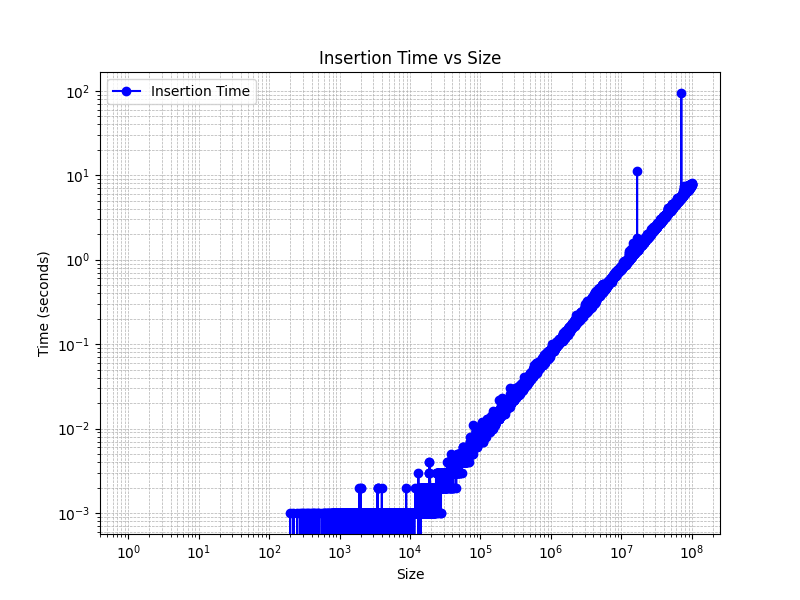
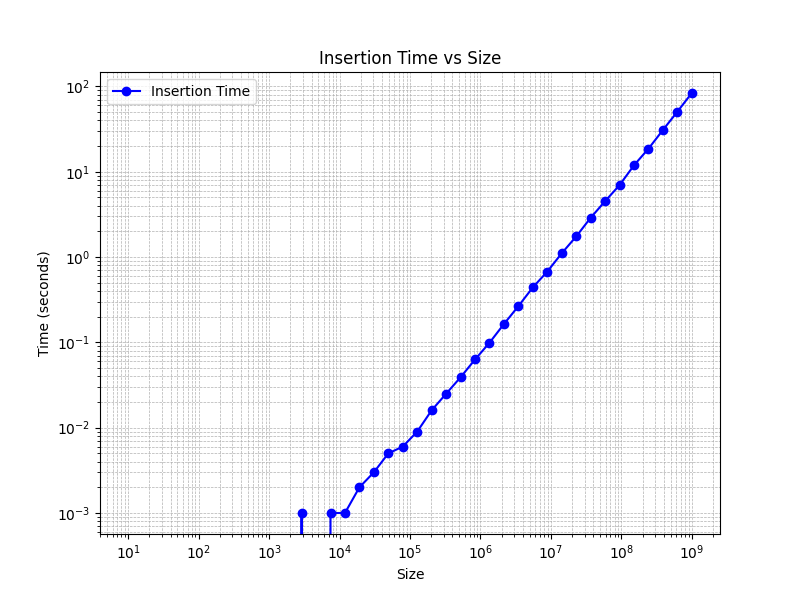
Pour regler le probleme de conflit taha

Changed region(s): [[0.0625, 0.15, 0.9062, 0.9], [0.0938, 0.12, 0.125, 0.18], [0.0938, 0.69, 0.125, 0.72]]

diff --git a/tests/arbreBinaire/test_BST.c b/tests/arbreBinaire/test_BST.c
@@ -1,7 +1,8 @@
 #include <stdio.h>
 #include <stdlib.h>
 #include <time.h>
-#include "../../include/arbreBinaire.h" // Inclure l'en-tête de votre arbre binaire
+#include "../../src/arbreBinaire.c"
+#include <math.h> // Inclure l'en-tête de votre arbre binaire
 
 void benchmarkBSTOperations(FILE *file, int n)
 {
@@ -57,7 +58,7 @@ void benchmarkBSTOperations(FILE *file, int n)
 int main()
 {
     // Définir les fichiers pour les résultats et les tailles de test
-    const char *results_file = "../../results/arbreBinaire/arbre_benchmark.csv";
+    const char *results_file = "../../results/arbreBinaire/arbre_benchmark2.csv";
     const char *test_values_file = "../test_values.csv";
 
     // Ouvrir le fichier de test_values.csv pour lire les tailles d'itération
@@ -101,16 +102,27 @@ int main()
     // Écrire l'en-tête du fichier CSV
     fprintf(file, "Size,insertion,search,delete\n");
 
-    // Exécuter les tests pour chaque taille d'arbre
-    for (int i = 0; i < num_iterations; i++)
+    int num_iterations2 = 60;
+    int iterations2[num_iterations2];
+    double start = 1; // Logarithmique de 10^1 = 1
+    double end = 20;  // Logarithmique de 10^9 = 9
+    double step = (end - start) / (num_iterations2 - 1);
+
+    for (int i = 0; i < num_iterations2; i++)
     {
-        printf("Running test for n=%d...\n", iterations[i]);
-        benchmarkBSTOperations(file, iterations[i]); // Effectuer le benchmark
+        iterations2[i] = (int)pow(10, start + i * step);
+    }
+
+    // Exécuter les tests pour chaque taille d'arbre
+    for (int i = 0; i < num_iterations2; i++)
+    {
+        printf("Running test for n=%d...\n", iterations2[i]);
+        benchmarkBSTOperations(file, iterations2[i]); // Effectuer le benchmark
     }
 
     // Fermer le fichier après les tests
     fclose(file);
-    free(iterations);
+    free(iterations2);
     printf("Completed tests, results saved in: %s\n", results_file);
 
     return 0;

diff --git a/results/arbreBinaire/plot_BST.py b/results/arbreBinaire/plot_BST.py
@@ -6,7 +6,7 @@ import os
 current_dir = os.path.dirname(os.path.abspath(__file__))
 
 # Load the CSV file into a pandas DataFrame
-file_path = 'C:/Users/hp/Desktop/Complexity/results/arbreBinaire/arbre_benchmark.csv'
+file_path = 'C:/Users/hp/Desktop/Complexity/results/arbreBinaire/arbre_benchmark2.csv'
 data = pd.read_csv(file_path)
 
 # Define output paths for the graphs
